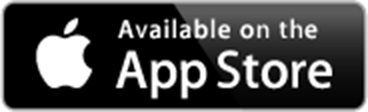
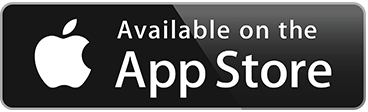
more app store happy with retinaness

diff --git a/assets/css/stylesheet.css b/assets/css/stylesheet.css
@@ -127,6 +127,13 @@ div.main-intro a {color:#FF7E00;}
 	margin-bottom:15px;
 }
 .download-app:hover {opacity: .8}
+@media 
+(-webkit-min-device-pixel-ratio: 2), 
+(min-resolution: 192dpi) { 
+	.download-app {
+		background-image: url('../img/app-store@2x.png');
+	}
+}
 
 /* PROJECTS - GENERAL ELEMENTS */
 .link-button {
